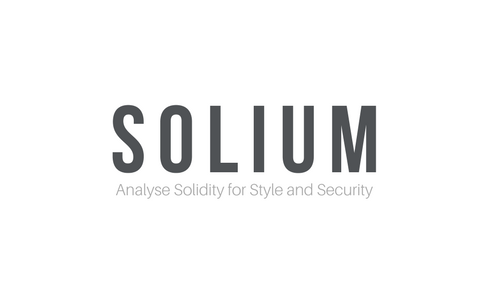
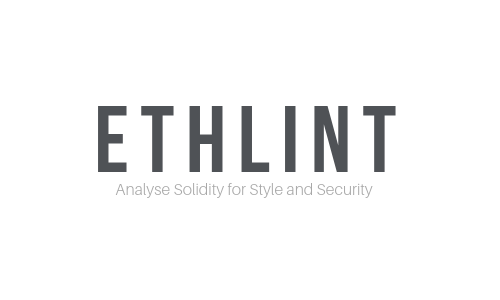
rename npm package

Changed region(s): [[0.18, 0.33, 0.81, 0.66], [0.72, 0.63, 0.75, 0.66]]

diff --git a/README.md b/README.md
@@ -4,20 +4,23 @@
 
 <br />
 
+[![Build Status](https://travis-ci.org/duaraghav8/Ethlint.svg?branch=master)](https://travis-ci.org/duaraghav8/Ethlint)
 [![Gitter chat](https://badges.gitter.im/gitterHQ/gitter.svg)](https://gitter.im/Solium-linter/Lobby)
-[![Build Status](https://travis-ci.org/duaraghav8/Solium.svg?branch=master)](https://travis-ci.org/duaraghav8/Solium)
 [![Latest News](https://img.shields.io/badge/Blog-Medium-yellowgreen.svg)](https://medium.com/solium)
-[![Snap Status](https://build.snapcraft.io/badge/duaraghav8/Solium.svg)](https://build.snapcraft.io/user/duaraghav8/Solium)
 
-Solium analyzes your Solidity code for style & security issues and fixes them.
+Ethlint (Formerly Solium) analyzes your Solidity code for style & security issues and fixes them.
 
-Standardize Smart Contract practices across your organisation. Integrate with your build system. Deploy with confidence!
+Standardize Smart Contract practices across your organisation. Integrate with your build system. Deploy with confidence.
 
 ## Install
 ```bash
-npm install -g solium
+npm install -g ethlint
 solium -V
 ```
+
+For backward-compatibility, you can still use `npm install -g solium`.
+
+If you're currently using the `solium` package for `npm install`, it is highly recommended that you move to `ethlint`. The `solium` package will not receive updates after April, 2019. There are no differences between the updates pushed to `ethlint` and `solium` packages.
 
 ## Usage
 In the root directory of your DApp:
